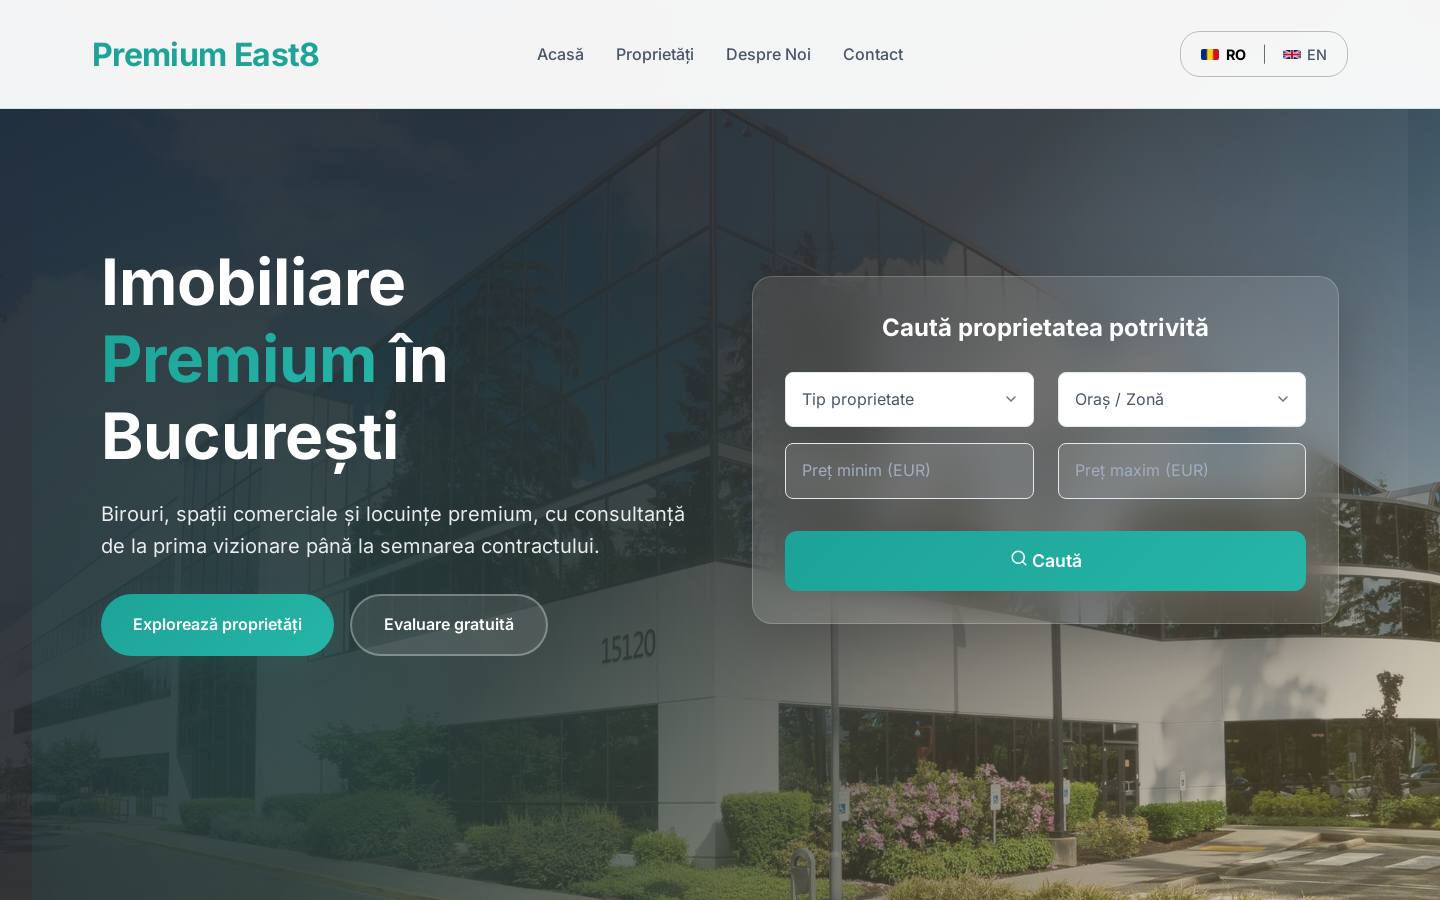
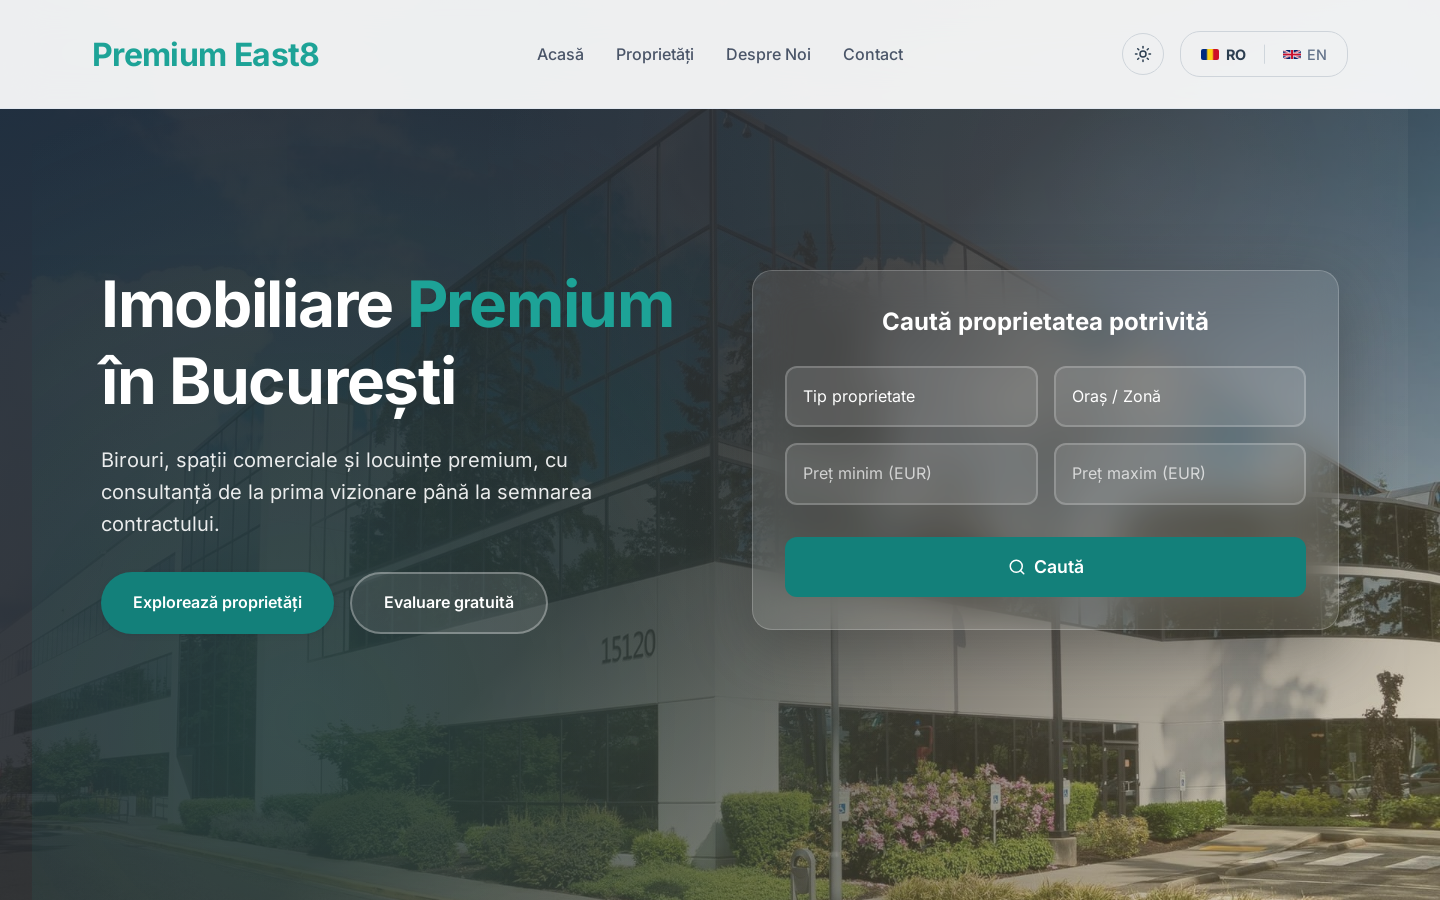
Document the light/dark theme in the README

diff --git a/README.md b/README.md
@@ -16,7 +16,21 @@ Website for Premium East8, a Bucharest real estate agency that works mostly with
 - Sold and rented listings stay visible with a status badge.
 - Contact form sent through Formspree, with a GDPR consent checkbox and a privacy and terms page.
 - Romanian and English translations with i18next.
-- Light and dark themes. The site follows the system setting until the visitor picks one with the switch in the header, and the choice is saved in `localStorage`. An inline script in `index.html` sets the theme before the first paint, so there's no flash on load. Maps switch to a dark Mapbox style as well.
+- Light and dark themes, with a switch in the header (details below).
+
+## Light and dark themes
+
+| Light | Dark |
+| --- | --- |
+| ![Listings in the light theme](docs/properties.png) | ![Listings in the dark theme](docs/properties-dark.png) |
+
+- The site starts in the visitor's system theme. Once they use the switch in the header (or in the mobile menu), their choice is saved in `localStorage` and kept on later visits.
+- A small inline script in `index.html` sets the theme before the page renders, so a dark-mode visitor never sees a white flash on load.
+- Colors are semantic tokens in `src/index.css` (`--bg`, `--surface`, `--text`, `--accent` and so on), defined once for each theme. Components only use the tokens, so a theme is one block of variables.
+- The dark palette is built from the brand navy. Cards and panels get lighter as they sit higher, and text and buttons keep at least 4.5:1 contrast in both themes.
+- Switching uses the View Transitions API: the new theme spreads out in a circle from the button. Browsers without that API, and visitors with reduced motion turned on, get an instant switch.
+- Maps change to Mapbox's dark style along with the rest of the page.
+- `src/lib/theme.js` holds the theme state. It exposes a `useTheme()` hook, built on `useSyncExternalStore`, for components that need to react to the theme (the map uses it).
 
 ## Stack
 
